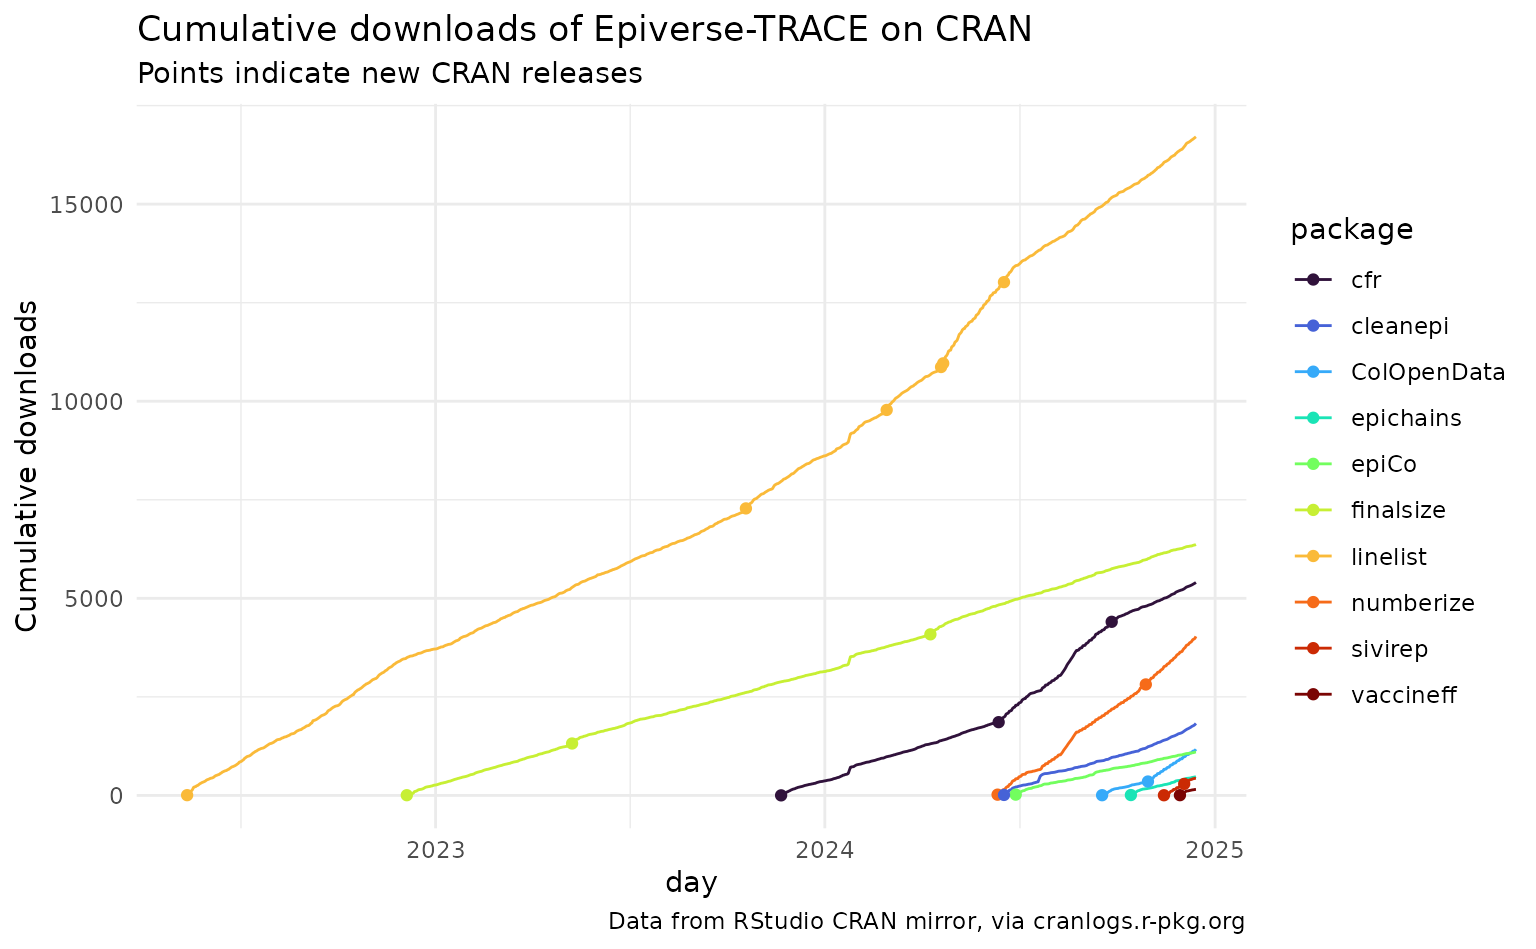
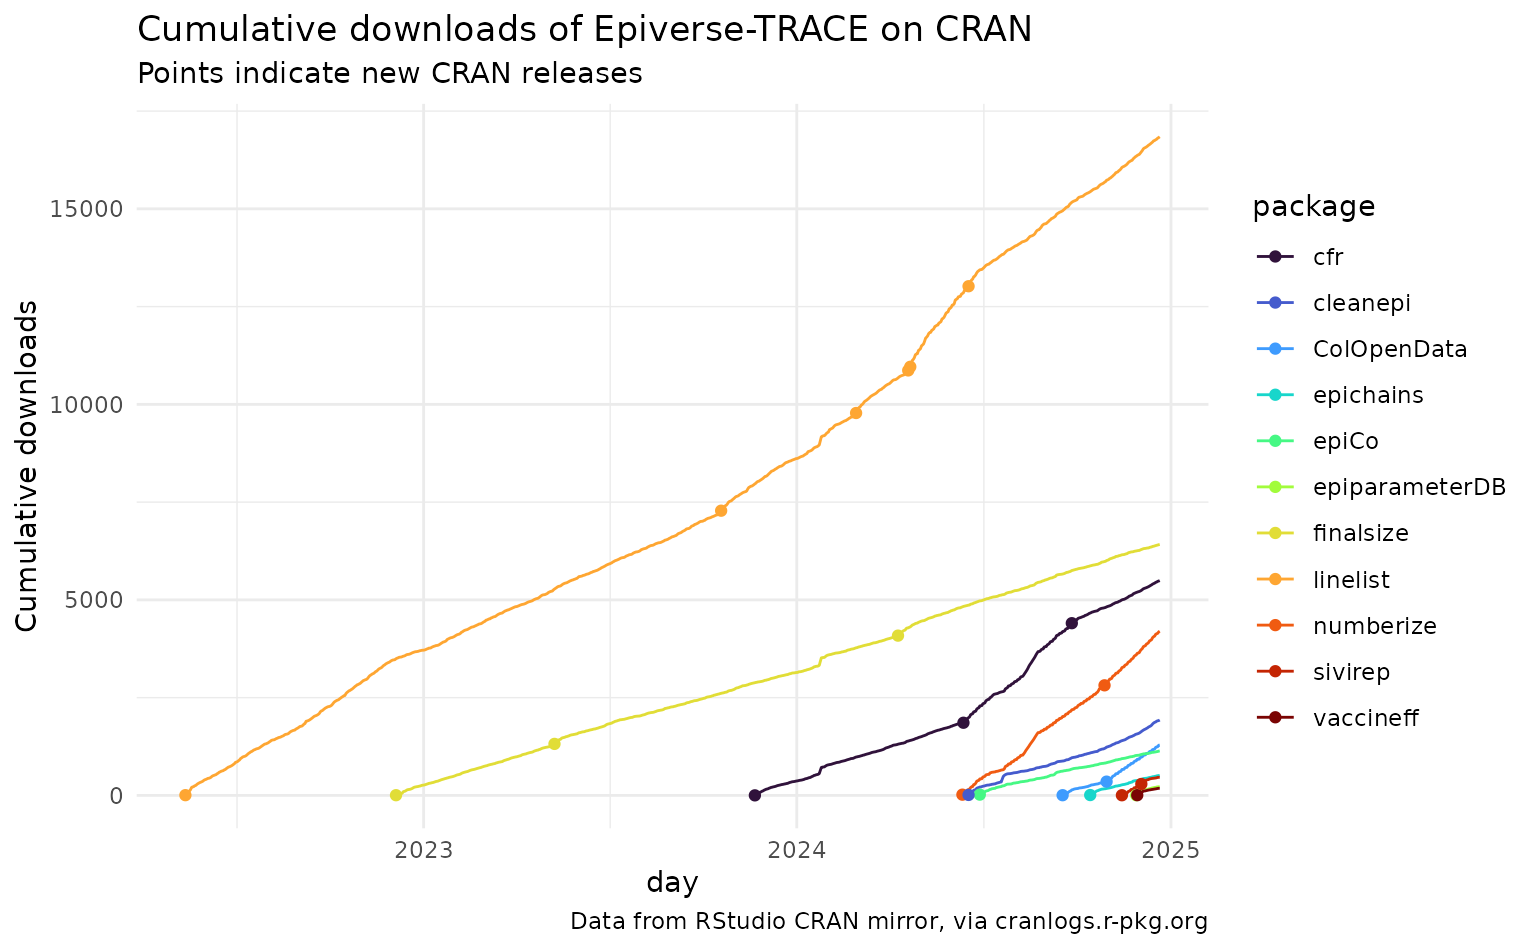
Deploying to gh-pages from @ epiverse-trace/etstats@39d027124207710236b04a49368f216d222e61d7 🚀

diff --git a/articles/cran-statistics.html b/articles/cran-statistics.html
@@ -74,7 +74,7 @@
 
       <h1>CRAN statistics</h1>
             
-            <h4 data-toc-skip class="date">2024-12-16</h4>
+            <h4 data-toc-skip class="date">2024-12-23</h4>
       
       <small class="dont-index">Source: <a href="https://github.com/epiverse-trace/etstats/blob/main/vignettes/cran-statistics.Rmd" class="external-link"><code>vignettes/cran-statistics.Rmd</code></a></small>
       <div class="d-none name"><code>cran-statistics.Rmd</code></div>
@@ -82,24 +82,27 @@
 
     
     
-<p>We currently have 10 Epiverse-TRACE packages on CRAN:</p>
+<pre><code><span><span class="co">#&gt; Error in get(paste0(generic, ".", class), envir = get_method_env()) : </span></span>
+<span><span class="co">#&gt;   object 'type_sum.accel' not found</span></span></code></pre>
+<p>We currently have 11 Epiverse-TRACE packages on CRAN:</p>
 <ul>
-<li><a href="https://cran.r-project.org/package=epichains" class="external-link">cfr</a></li>
-<li><a href="https://cran.r-project.org/package=linelist" class="external-link">cleanepi</a></li>
-<li><a href="https://cran.r-project.org/package=vaccineff" class="external-link">ColOpenData</a></li>
-<li><a href="https://cran.r-project.org/package=cfr" class="external-link">epichains</a></li>
-<li><a href="https://cran.r-project.org/package=sivirep" class="external-link">epiCo</a></li>
+<li><a href="https://cran.r-project.org/package=cfr" class="external-link">cfr</a></li>
+<li><a href="https://cran.r-project.org/package=epiparameterDB" class="external-link">cleanepi</a></li>
+<li><a href="https://cran.r-project.org/package=epichains" class="external-link">ColOpenData</a></li>
+<li><a href="https://cran.r-project.org/package=linelist" class="external-link">epichains</a></li>
+<li><a href="https://cran.r-project.org/package=vaccineff" class="external-link">epiCo</a></li>
+<li><a href="https://cran.r-project.org/package=sivirep" class="external-link">epiparameterDB</a></li>
 <li><a href="https://cran.r-project.org/package=epiCo" class="external-link">finalsize</a></li>
 <li><a href="https://cran.r-project.org/package=ColOpenData" class="external-link">linelist</a></li>
 <li><a href="https://cran.r-project.org/package=numberize" class="external-link">numberize</a></li>
 <li><a href="https://cran.r-project.org/package=cleanepi" class="external-link">sivirep</a></li>
 <li><a href="https://cran.r-project.org/package=finalsize" class="external-link">vaccineff</a></li>
 </ul>
-<p>In total, Epiverse-TRACE packages on CRAN have been downloaded 37678
+<p>In total, Epiverse-TRACE packages on CRAN have been downloaded 38688
 times.</p>
 <p>Below is a visualization of the breakdown of this grand total by
 package over time.</p>
-<p><img src="cran-statistics_files/figure-html/unnamed-chunk-7-1.png" alt="Cumulative downloads of Epiverse-TRACE on CRAN (epichains, linelist, vaccineff, cfr, sivirep, epiCo, ColOpenData, numberize, cleanepi, finalsize)" width="768"></p>
+<p><img src="cran-statistics_files/figure-html/unnamed-chunk-7-1.png" alt="Cumulative downloads of Epiverse-TRACE on CRAN (cfr, epiparameterDB, epichains, linelist, vaccineff, sivirep, epiCo, ColOpenData, numberize, cleanepi, finalsize)" width="768"></p>
 <table class="table">
 <thead><tr class="header">
 <th align="left">package</th>
@@ -112,67 +115,73 @@ package over time.</p>
 <td align="left">finalsize</td>
 <td align="right">260</td>
 <td align="right">2881</td>
-<td align="right">3226</td>
+<td align="right">3276</td>
 </tr>
 <tr class="even">
 <td align="left">linelist</td>
 <td align="right">3712</td>
 <td align="right">4898</td>
-<td align="right">8099</td>
+<td align="right">8233</td>
 </tr>
 <tr class="odd">
 <td align="left">cfr</td>
 <td align="right">NA</td>
 <td align="right">364</td>
-<td align="right">5039</td>
+<td align="right">5130</td>
 </tr>
 <tr class="even">
 <td align="left">ColOpenData</td>
 <td align="right">NA</td>
 <td align="right">NA</td>
-<td align="right">1172</td>
+<td align="right">1287</td>
 </tr>
 <tr class="odd">
 <td align="left">cleanepi</td>
 <td align="right">NA</td>
 <td align="right">NA</td>
-<td align="right">1826</td>
+<td align="right">1928</td>
 </tr>
 <tr class="even">
 <td align="left">epiCo</td>
 <td align="right">NA</td>
 <td align="right">NA</td>
-<td align="right">1102</td>
+<td align="right">1137</td>
 </tr>
 <tr class="odd">
 <td align="left">epichains</td>
 <td align="right">NA</td>
 <td align="right">NA</td>
-<td align="right">477</td>
+<td align="right">513</td>
 </tr>
 <tr class="even">
+<td align="left">epiparameterDB</td>
+<td align="right">NA</td>
+<td align="right">NA</td>
+<td align="right">223</td>
+</tr>
+<tr class="odd">
 <td align="left">numberize</td>
 <td align="right">NA</td>
 <td align="right">NA</td>
-<td align="right">4034</td>
+<td align="right">4199</td>
 </tr>
-<tr class="odd">
+<tr class="even">
 <td align="left">sivirep</td>
 <td align="right">NA</td>
 <td align="right">NA</td>
-<td align="right">435</td>
+<td align="right">464</td>
 </tr>
-<tr class="even">
+<tr class="odd">
 <td align="left">vaccineff</td>
 <td align="right">NA</td>
 <td align="right">NA</td>
-<td align="right">153</td>
+<td align="right">183</td>
 </tr>
-<tr class="odd">
+<tr class="even">
 <td align="left">Total</td>
 <td align="right">3972</td>
 <td align="right">8143</td>
-<td align="right">25563</td>
+<td align="right">26573</td>
 </tr>
 </tbody>
 </table></main>

diff --git a/articles/github-statistics.html b/articles/github-statistics.html
@@ -74,7 +74,7 @@
 
       <h1>GitHub statistics</h1>
             
-            <h4 data-toc-skip class="date">2024-12-16</h4>
+            <h4 data-toc-skip class="date">2024-12-23</h4>
       
       <small class="dont-index">Source: <a href="https://github.com/epiverse-trace/etstats/blob/main/vignettes/github-statistics.Rmd" class="external-link"><code>vignettes/github-statistics.Rmd</code></a></small>
       <div class="d-none name"><code>github-statistics.Rmd</code></div>
@@ -85,12 +85,14 @@
 <div class="section level2">
 <h2 id="github-followers">GitHub followers<a class="anchor" aria-label="anchor" href="#github-followers"></a>
 </h2>
-<p>Our Epiverse-TRACE GitHub organization currently has 178
+<p>Our Epiverse-TRACE GitHub organization currently has 179
 followers.</p>
 </div>
 <div class="section level2">
 <h2 id="github-stars">GitHub stars ⭐<a class="anchor" aria-label="anchor" href="#github-stars"></a>
 </h2>
+<pre><code><span><span class="co">#&gt; Error in get(paste0(generic, ".", class), envir = get_method_env()) : </span></span>
+<span><span class="co">#&gt;   object 'type_sum.accel' not found</span></span></code></pre>
 <div class="section level3">
 <h3 id="totals">Totals<a class="anchor" aria-label="anchor" href="#totals"></a>
 </h3>
